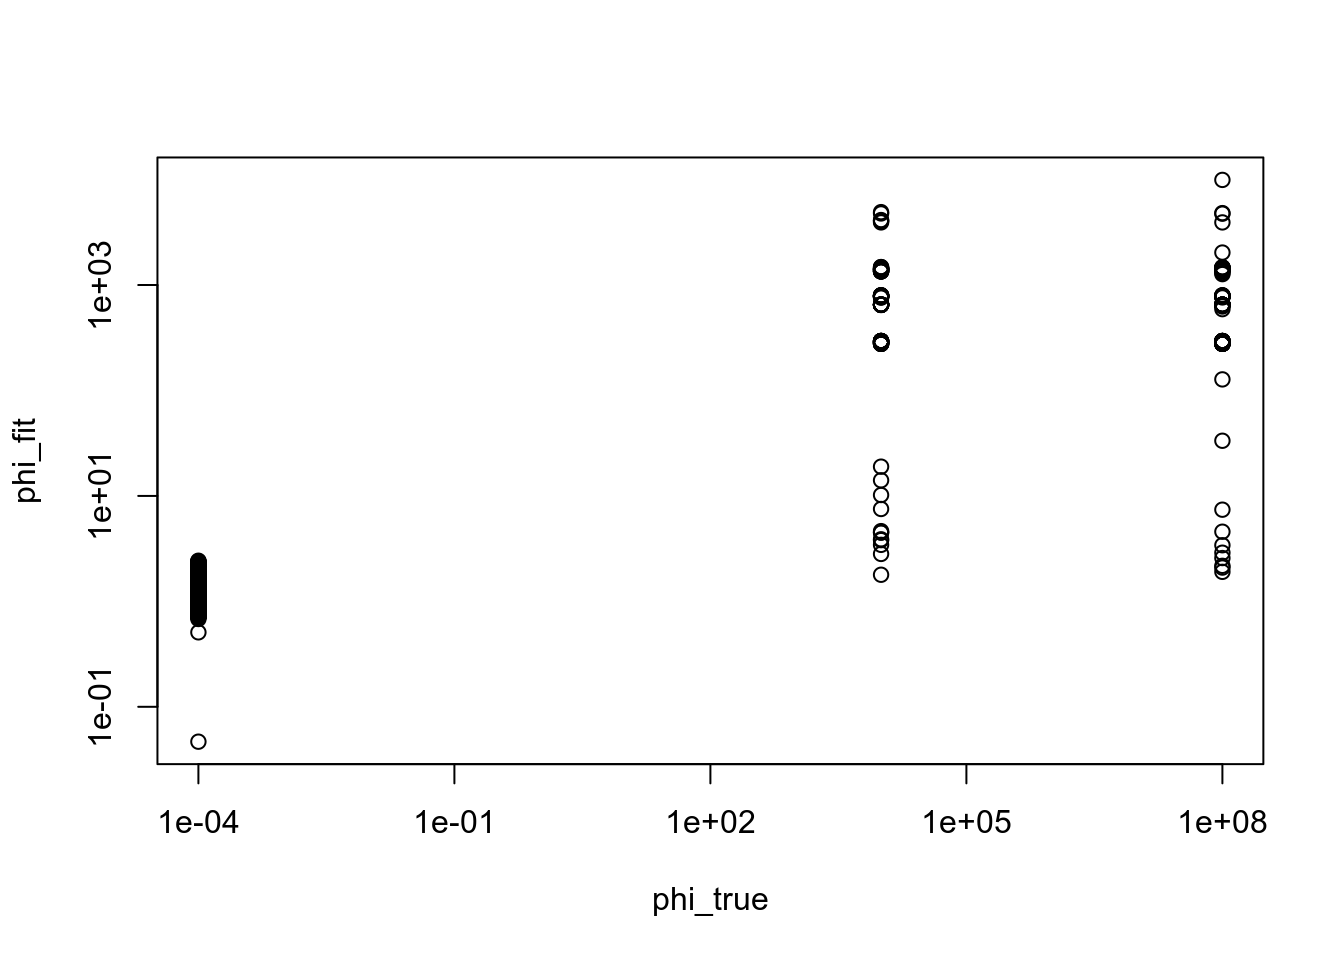
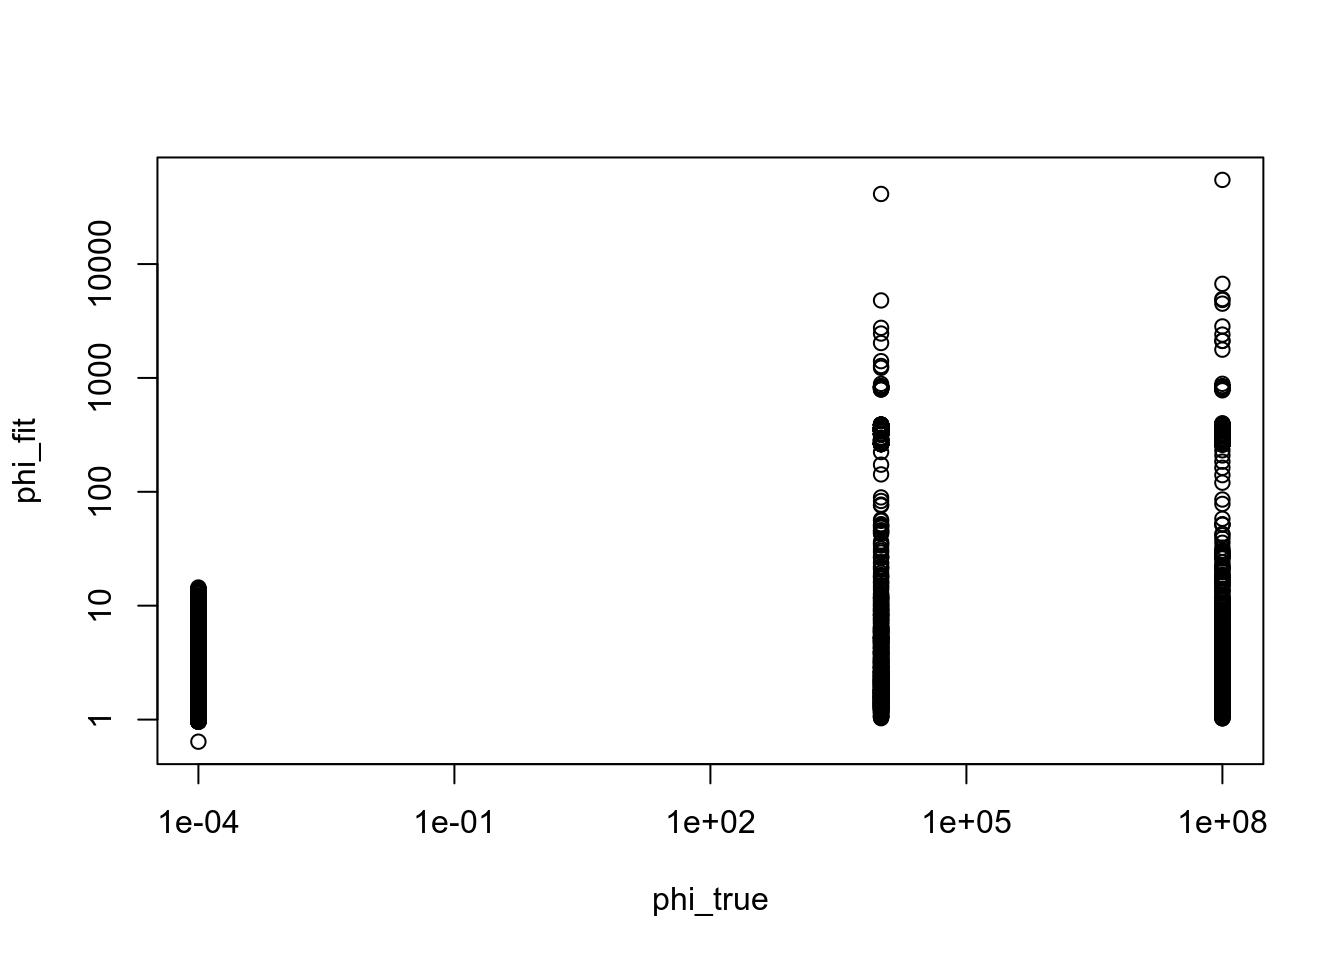
Build site.

diff --git a/docs/experiment_nb_means2.html b/docs/experiment_nb_means2.html
@@ -412,7 +412,7 @@ div.section {
 <div class="tab-content">
 <div id="summary" class="tab-pane fade in active">
 <p>
-<strong>Last updated:</strong> 2020-04-02
+<strong>Last updated:</strong> 2020-04-03
 </p>
 <p>
 <strong>Checks:</strong> <span class="glyphicon glyphicon-ok text-success" aria-hidden="true"></span> 6 <span class="glyphicon glyphicon-exclamation-sign text-danger" aria-hidden="true"></span> 1
@@ -509,10 +509,10 @@ unnamed-chunk-3
 <div class="panel panel-default">
 <div class="panel-heading">
 <p class="panel-title">
-<a data-toggle="collapse" data-parent="#workflowr-checks" href="#strongRepositoryversionstrongahrefhttpsgithubcomzihao12ebpmfdemotreea6c40af4006f919c99ed0864b788d84de17cc91atargetblanka6c40afa"> <span class="glyphicon glyphicon-ok text-success" aria-hidden="true"></span> <strong>Repository version:</strong> <a href="https://github.com/zihao12/ebpmf_demo/tree/a6c40af4006f919c99ed0864b788d84de17cc91a" target="_blank">a6c40af</a> </a>
+<a data-toggle="collapse" data-parent="#workflowr-checks" href="#strongRepositoryversionstrongahrefhttpsgithubcomzihao12ebpmfdemotreec5fbd8ff15811a03b1a968868c0dfaf10c2e35b6targetblankc5fbd8fa"> <span class="glyphicon glyphicon-ok text-success" aria-hidden="true"></span> <strong>Repository version:</strong> <a href="https://github.com/zihao12/ebpmf_demo/tree/c5fbd8ff15811a03b1a968868c0dfaf10c2e35b6" target="_blank">c5fbd8f</a> </a>
 </p>
 </div>
[2 lines of base64/hex data omitted]
 <div class="panel-body">
 <p>
 Great! You are using Git for version control. Tracking code development and connecting the code version to the results is critical for reproducibility. The version displayed above was the version of the Git repository at the time these results were generated. <br><br> Note that you need to be careful to ensure that all relevant files for the analysis have been committed to Git prior to generating the results (you can use <code>wflow_publish</code> or <code>wflow_git_commit</code>). workflowr only checks the R Markdown file, but you know if there are other scripts or data files that it depends on. Below is the status of the Git repository when the results were generated:
@@ -558,6 +558,7 @@ Unstaged changes:
     Modified:   analysis/nmf_sparse13.Rmd
     Modified:   analysis/nmf_sparse14.Rmd
     Modified:   analysis/nmf_sparse16.Rmd
+    Modified:   script/nb_means.R
 
 </code></pre>
 <p>
@@ -596,6 +597,40 @@ Message
 </tr>
 </thead>
 <tbody>
+<tr>
+<td>
+Rmd
+</td>
+<td>
+<a href="https://github.com/zihao12/ebpmf_demo/blob/c5fbd8ff15811a03b1a968868c0dfaf10c2e35b6/analysis/experiment_nb_means2.Rmd" target="_blank">c5fbd8f</a>
+</td>
+<td>
+zihao12
+</td>
+<td>
+2020-04-03
+</td>
+<td>
+try to fix issue with nlm
+</td>
+</tr>
+<tr>
+<td>
+html
+</td>
+<td>
+<a href="https://rawcdn.githack.com/zihao12/ebpmf_demo/d689f6451d439a0edff0b3d511246839a4d58023/docs/experiment_nb_means2.html" target="_blank">d689f64</a>
+</td>
+<td>
+zihao12
+</td>
+<td>
+2020-04-02
+</td>
+<td>
+Build site.
+</td>
+</tr>
 <tr>
 <td>
 html
@@ -868,199 +903,7 @@ set.seed(123)</code></pre>
 <!-- ```{r cache=TRUE, autodep=TRUE, message=FALSE, warning=FALSE} -->
 <!-- exper <- exper_nb_means(K = 10, p = 99, maxiter = 100, verbose = FALSE) -->
 <!-- ``` -->
-<pre class="r"><code>exper &lt;- exper_nb_means(K = 10, p = 99, maxiter = 200, verbose = FALSE)</code></pre>
-<pre><code>Error in (function (f, p, ..., hessian = FALSE, typsize = rep(1, length(p)),  : 
-  probable coding error in analytic gradient
-Error in (function (f, p, ..., hessian = FALSE, typsize = rep(1, length(p)),  : 
-  probable coding error in analytic gradient
-Error in (function (f, p, ..., hessian = FALSE, typsize = rep(1, length(p)),  : 
-  probable coding error in analytic gradient
-Error in (function (f, p, ..., hessian = FALSE, typsize = rep(1, length(p)),  : 
-  probable coding error in analytic gradient
-Error in (function (f, p, ..., hessian = FALSE, typsize = rep(1, length(p)),  : 
-  probable coding error in analytic gradient
-Error in (function (f, p, ..., hessian = FALSE, typsize = rep(1, length(p)),  : 
-  probable coding error in analytic gradient
-Error in (function (f, p, ..., hessian = FALSE, typsize = rep(1, length(p)),  : 
-  probable coding error in analytic gradient
-Error in (function (f, p, ..., hessian = FALSE, typsize = rep(1, length(p)),  : 
-  probable coding error in analytic gradient
-Error in (function (f, p, ..., hessian = FALSE, typsize = rep(1, length(p)),  : 
-  probable coding error in analytic gradient
-Error in (function (f, p, ..., hessian = FALSE, typsize = rep(1, length(p)),  : 
-  probable coding error in analytic gradient
-Error in (function (f, p, ..., hessian = FALSE, typsize = rep(1, length(p)),  : 
-  probable coding error in analytic gradient
-Error in (function (f, p, ..., hessian = FALSE, typsize = rep(1, length(p)),  : 
-  probable coding error in analytic gradient
-Error in (function (f, p, ..., hessian = FALSE, typsize = rep(1, length(p)),  : 
-  probable coding error in analytic gradient
-Error in (function (f, p, ..., hessian = FALSE, typsize = rep(1, length(p)),  : 
-  probable coding error in analytic gradient
-Error in (function (f, p, ..., hessian = FALSE, typsize = rep(1, length(p)),  : 
-  probable coding error in analytic gradient
-Error in (function (f, p, ..., hessian = FALSE, typsize = rep(1, length(p)),  : 
-  probable coding error in analytic gradient
-Error in (function (f, p, ..., hessian = FALSE, typsize = rep(1, length(p)),  : 
-  probable coding error in analytic gradient
-Error in (function (f, p, ..., hessian = FALSE, typsize = rep(1, length(p)),  : 
-  probable coding error in analytic gradient
-Error in (function (f, p, ..., hessian = FALSE, typsize = rep(1, length(p)),  : 
-  probable coding error in analytic gradient
-Error in (function (f, p, ..., hessian = FALSE, typsize = rep(1, length(p)),  : 
-  probable coding error in analytic gradient
-Error in (function (f, p, ..., hessian = FALSE, typsize = rep(1, length(p)),  : 
-  probable coding error in analytic gradient
-Error in (function (f, p, ..., hessian = FALSE, typsize = rep(1, length(p)),  : 
-  probable coding error in analytic gradient
-Error in (function (f, p, ..., hessian = FALSE, typsize = rep(1, length(p)),  : 
-  probable coding error in analytic gradient
-Error in (function (f, p, ..., hessian = FALSE, typsize = rep(1, length(p)),  : 
-  probable coding error in analytic gradient
-Error in (function (f, p, ..., hessian = FALSE, typsize = rep(1, length(p)),  : 
-  probable coding error in analytic gradient
-Error in (function (f, p, ..., hessian = FALSE, typsize = rep(1, length(p)),  : 
-  probable coding error in analytic gradient
-Error in (function (f, p, ..., hessian = FALSE, typsize = rep(1, length(p)),  : 
-  probable coding error in analytic gradient
-Error in (function (f, p, ..., hessian = FALSE, typsize = rep(1, length(p)),  : 
-  probable coding error in analytic gradient
-Error in (function (f, p, ..., hessian = FALSE, typsize = rep(1, length(p)),  : 
-  probable coding error in analytic gradient
-Error in (function (f, p, ..., hessian = FALSE, typsize = rep(1, length(p)),  : 
-  probable coding error in analytic gradient
-Error in (function (f, p, ..., hessian = FALSE, typsize = rep(1, length(p)),  : 
-  probable coding error in analytic gradient
-Error in (function (f, p, ..., hessian = FALSE, typsize = rep(1, length(p)),  : 
-  probable coding error in analytic gradient
-Error in (function (f, p, ..., hessian = FALSE, typsize = rep(1, length(p)),  : 
-  probable coding error in analytic gradient
-Error in (function (f, p, ..., hessian = FALSE, typsize = rep(1, length(p)),  : 
-  probable coding error in analytic gradient
-Error in (function (f, p, ..., hessian = FALSE, typsize = rep(1, length(p)),  : 
-  probable coding error in analytic gradient
-Error in (function (f, p, ..., hessian = FALSE, typsize = rep(1, length(p)),  : 
-  probable coding error in analytic gradient
-Error in (function (f, p, ..., hessian = FALSE, typsize = rep(1, length(p)),  : 
-  probable coding error in analytic gradient
-Error in (function (f, p, ..., hessian = FALSE, typsize = rep(1, length(p)),  : 
-  probable coding error in analytic gradient
-Error in (function (f, p, ..., hessian = FALSE, typsize = rep(1, length(p)),  : 
-  probable coding error in analytic gradient
-Error in (function (f, p, ..., hessian = FALSE, typsize = rep(1, length(p)),  : 
-  probable coding error in analytic gradient
-Error in (function (f, p, ..., hessian = FALSE, typsize = rep(1, length(p)),  : 
-  probable coding error in analytic gradient
-Error in (function (f, p, ..., hessian = FALSE, typsize = rep(1, length(p)),  : 
-  probable coding error in analytic gradient
-Error in (function (f, p, ..., hessian = FALSE, typsize = rep(1, length(p)),  : 
-  probable coding error in analytic gradient
-Error in (function (f, p, ..., hessian = FALSE, typsize = rep(1, length(p)),  : 
-  probable coding error in analytic gradient
-Error in (function (f, p, ..., hessian = FALSE, typsize = rep(1, length(p)),  : 
-  probable coding error in analytic gradient
-Error in (function (f, p, ..., hessian = FALSE, typsize = rep(1, length(p)),  : 
-  probable coding error in analytic gradient
-Error in (function (f, p, ..., hessian = FALSE, typsize = rep(1, length(p)),  : 
-  probable coding error in analytic gradient
-Error in (function (f, p, ..., hessian = FALSE, typsize = rep(1, length(p)),  : 
-  probable coding error in analytic gradient
-Error in (function (f, p, ..., hessian = FALSE, typsize = rep(1, length(p)),  : 
-  probable coding error in analytic gradient
-Error in (function (f, p, ..., hessian = FALSE, typsize = rep(1, length(p)),  : 
-  probable coding error in analytic gradient
-Error in (function (f, p, ..., hessian = FALSE, typsize = rep(1, length(p)),  : 
-  probable coding error in analytic gradient
-Error in (function (f, p, ..., hessian = FALSE, typsize = rep(1, length(p)),  : 
-  probable coding error in analytic gradient
-Error in (function (f, p, ..., hessian = FALSE, typsize = rep(1, length(p)),  : 
-  probable coding error in analytic gradient
-Error in (function (f, p, ..., hessian = FALSE, typsize = rep(1, length(p)),  : 
-  probable coding error in analytic gradient
-Error in (function (f, p, ..., hessian = FALSE, typsize = rep(1, length(p)),  : 
-  probable coding error in analytic gradient
-Error in (function (f, p, ..., hessian = FALSE, typsize = rep(1, length(p)),  : 
-  probable coding error in analytic gradient
-Error in (function (f, p, ..., hessian = FALSE, typsize = rep(1, length(p)),  : 
-  probable coding error in analytic gradient
-Error in (function (f, p, ..., hessian = FALSE, typsize = rep(1, length(p)),  : 
-  probable coding error in analytic gradient
-Error in (function (f, p, ..., hessian = FALSE, typsize = rep(1, length(p)),  : 
-  probable coding error in analytic gradient
-Error in (function (f, p, ..., hessian = FALSE, typsize = rep(1, length(p)),  : 
-  probable coding error in analytic gradient
-Error in (function (f, p, ..., hessian = FALSE, typsize = rep(1, length(p)),  : 
-  probable coding error in analytic gradient
-Error in (function (f, p, ..., hessian = FALSE, typsize = rep(1, length(p)),  : 
-  probable coding error in analytic gradient
-Error in (function (f, p, ..., hessian = FALSE, typsize = rep(1, length(p)),  : 
-  probable coding error in analytic gradient
-Error in (function (f, p, ..., hessian = FALSE, typsize = rep(1, length(p)),  : 
-  probable coding error in analytic gradient
-Error in (function (f, p, ..., hessian = FALSE, typsize = rep(1, length(p)),  : 
-  probable coding error in analytic gradient
-Error in (function (f, p, ..., hessian = FALSE, typsize = rep(1, length(p)),  : 
-  probable coding error in analytic gradient
-Error in (function (f, p, ..., hessian = FALSE, typsize = rep(1, length(p)),  : 
-  probable coding error in analytic gradient
-Error in (function (f, p, ..., hessian = FALSE, typsize = rep(1, length(p)),  : 
-  probable coding error in analytic gradient
-Error in (function (f, p, ..., hessian = FALSE, typsize = rep(1, length(p)),  : 
-  probable coding error in analytic gradient
-Error in (function (f, p, ..., hessian = FALSE, typsize = rep(1, length(p)),  : 
-  probable coding error in analytic gradient
-Error in (function (f, p, ..., hessian = FALSE, typsize = rep(1, length(p)),  : 
-  probable coding error in analytic gradient
-Error in (function (f, p, ..., hessian = FALSE, typsize = rep(1, length(p)),  : 
-  probable coding error in analytic gradient
-Error in (function (f, p, ..., hessian = FALSE, typsize = rep(1, length(p)),  : 
-  probable coding error in analytic gradient
-Error in (function (f, p, ..., hessian = FALSE, typsize = rep(1, length(p)),  : 
-  probable coding error in analytic gradient
-Error in (function (f, p, ..., hessian = FALSE, typsize = rep(1, length(p)),  : 
-  probable coding error in analytic gradient
-Error in (function (f, p, ..., hessian = FALSE, typsize = rep(1, length(p)),  : 
-  probable coding error in analytic gradient
-Error in (function (f, p, ..., hessian = FALSE, typsize = rep(1, length(p)),  : 
-  probable coding error in analytic gradient
-Error in (function (f, p, ..., hessian = FALSE, typsize = rep(1, length(p)),  : 
-  probable coding error in analytic gradient
-Error in (function (f, p, ..., hessian = FALSE, typsize = rep(1, length(p)),  : 
-  probable coding error in analytic gradient
-Error in (function (f, p, ..., hessian = FALSE, typsize = rep(1, length(p)),  : 
-  probable coding error in analytic gradient
-Error in (function (f, p, ..., hessian = FALSE, typsize = rep(1, length(p)),  : 
-  probable coding error in analytic gradient
-Error in (function (f, p, ..., hessian = FALSE, typsize = rep(1, length(p)),  : 
-  probable coding error in analytic gradient
-Error in (function (f, p, ..., hessian = FALSE, typsize = rep(1, length(p)),  : 
-  probable coding error in analytic gradient
-Error in (function (f, p, ..., hessian = FALSE, typsize = rep(1, length(p)),  : 
-  probable coding error in analytic gradient
-Error in (function (f, p, ..., hessian = FALSE, typsize = rep(1, length(p)),  : 
-  probable coding error in analytic gradient
-Error in (function (f, p, ..., hessian = FALSE, typsize = rep(1, length(p)),  : 
-  probable coding error in analytic gradient
-Error in (function (f, p, ..., hessian = FALSE, typsize = rep(1, length(p)),  : 
-  probable coding error in analytic gradient
-Error in (function (f, p, ..., hessian = FALSE, typsize = rep(1, length(p)),  : 
-  probable coding error in analytic gradient
-Error in (function (f, p, ..., hessian = FALSE, typsize = rep(1, length(p)),  : 
-  probable coding error in analytic gradient
-Error in (function (f, p, ..., hessian = FALSE, typsize = rep(1, length(p)),  : 
-  probable coding error in analytic gradient
-Error in (function (f, p, ..., hessian = FALSE, typsize = rep(1, length(p)),  : 
-  probable coding error in analytic gradient
-Error in (function (f, p, ..., hessian = FALSE, typsize = rep(1, length(p)),  : 
-  probable coding error in analytic gradient
-Error in (function (f, p, ..., hessian = FALSE, typsize = rep(1, length(p)),  : 
-  probable coding error in analytic gradient
-Error in (function (f, p, ..., hessian = FALSE, typsize = rep(1, length(p)),  : 
-  probable coding error in analytic gradient
-Error in (function (f, p, ..., hessian = FALSE, typsize = rep(1, length(p)),  : 
-  probable coding error in analytic gradient
-Error in (function (f, p, ..., hessian = FALSE, typsize = rep(1, length(p)),  : 
-  probable coding error in analytic gradient</code></pre>
+<pre class="r"><code>exper &lt;- exper_nb_means(K = 10, p = 999, maxiter = 100, verbose = FALSE)</code></pre>
 <ul>
 <li>There are optimization issues when initializing from truth, or running too many iterations …</li>
 </ul>
@@ -1071,7 +914,7 @@ Error in (function (f, p, ..., hessian = FALSE, typsize = rep(1, length(p)),  :
 <pre class="r"><code>ylim = c(min(c(exper$fit_init_random2$progress, exper$fit_init_random1$progress)),
          max( c(exper$fit_init_random2$progress, exper$fit_init_random2$progress, exper$ll_oracle)   ))
 print(exper$ll_oracle)</code></pre>
-<pre><code>[1] 3384084</code></pre>
+<pre><code>[1] 34834173</code></pre>
 <pre class="r"><code>plot(exper$fit_init_random2$progress, col = &quot;red&quot;, xlab  = &quot;niter&quot;, ylab = &quot;loglikelihood&quot;, type = &quot;l&quot;, ylim = ylim)
 lines(exper$fit_init_random1$progress, col = &quot;green&quot;)
 #lines(exper$fit_init_truth$progress, col = &quot;blue&quot;)
@@ -1305,12 +1148,13 @@ other attached packages:
 [1] workflowr_1.6.0
 
 loaded via a namespace (and not attached):
- [1] Rcpp_1.0.3      rprojroot_1.3-2 digest_0.6.23   later_1.0.0    
- [5] R6_2.4.1        backports_1.1.5 git2r_0.26.1    magrittr_1.5   
- [9] evaluate_0.14   stringi_1.4.5   rlang_0.4.4     fs_1.3.1       
-[13] promises_1.1.0  whisker_0.4     rmarkdown_2.1   tools_3.6.3    
-[17] stringr_1.4.0   glue_1.3.1      httpuv_1.5.2    xfun_0.12      
-[21] yaml_2.2.1      compiler_3.6.3  htmltools_0.4.0 knitr_1.28     </code></pre>
+ [1] Rcpp_1.0.3       codetools_0.2-16 rprojroot_1.3-2  digest_0.6.23   
+ [5] later_1.0.0      R6_2.4.1         backports_1.1.5  git2r_0.26.1    
+ [9] magrittr_1.5     evaluate_0.14    stringi_1.4.5    rlang_0.4.4     
+[13] fs_1.3.1         promises_1.1.0   whisker_0.4      rmarkdown_2.1   
+[17] tools_3.6.3      stringr_1.4.0    glue_1.3.1       httpuv_1.5.2    
+[21] xfun_0.12        yaml_2.2.1       compiler_3.6.3   htmltools_0.4.0 
+[25] knitr_1.28      </code></pre>
 </div>
 </div>
 
